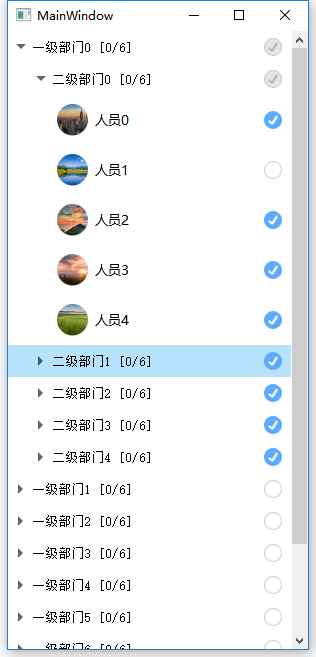
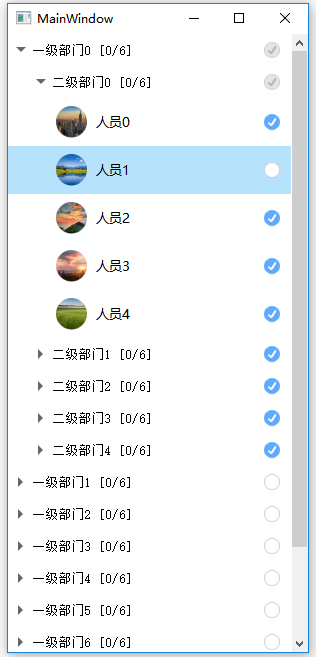
更新人员Item的高度及Checkbox的大小
1、人员Item的高度由52改为48；
2、Checkbox的大小由18改为16；
3、更新效果图

diff --git a/Resources/QSS/MainWindow.css b/Resources/QSS/MainWindow.css
@@ -22,8 +22,8 @@
     background-color: rgba(135, 206, 250, 50);
 }
 #tree::indicator{
-    width: 18px;
-    height: 18px;
+    width: 16px;
+    height: 16px;
 }
 #tree::indicator:checked{
     image: url(:/tree/Resources/ckChecked_normal.png);
